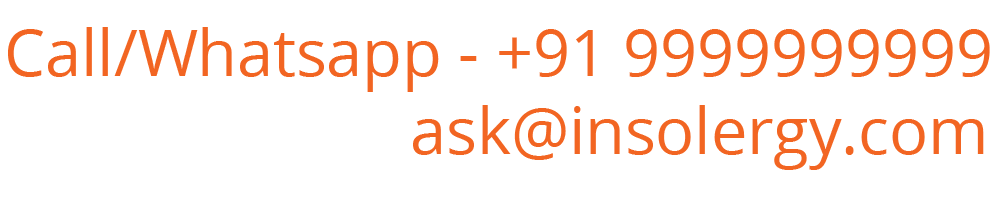
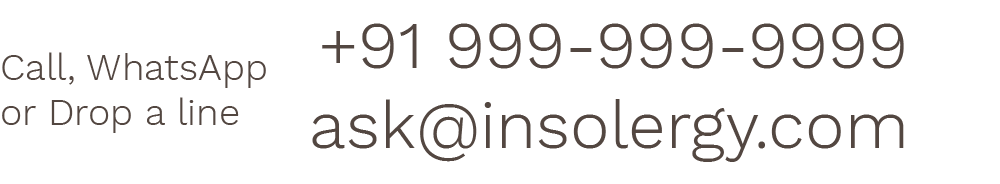
Added new whatsapp image, empty form not received now, Removed g+ link etc

diff --git a/Website/index.html b/Website/index.html
@@ -30,7 +30,7 @@
 						<li><a href="#page2">Services</a></li>
 						<li><a href="#page3">Solar</a></li>
 						<li><a href="#page4">Contact</a></li>
-						<img src="images/Call_Whatsapp.png" width="250px" align="right">
+						<img src="images/Call_Whatsapp.png" width="270px" align="right">
 						<!--<li><a href="#"><p>Call/Whatsapp - +91 99999999</p></a></li>-->
 					</ul>
 				</nav>
@@ -126,24 +126,27 @@
 												</div>
 											</div>
 											<div class="row">
-												<div class="12u" style="width: 85%;	padding-left: 25%">
+												<div class="12u" style="width: 85%;	padding-left: 25%;padding-top: 0px">
 													<ul class="actions">
 														<!--<li>-->
 														<!--<p style="margin-left: 200px"></p>-->
 														<div id="divToFocus" tabindex='1'>
-														<p id="contactText" style="font-size: 1.3em">Need help? Share your contact details</p>
+														<p id="contactText" style="font-size: 1.3em"><p id="oldChild">Need help? Share your contact details</p></p>
 															</div>
 														<div id="contact">
 															<form id="contact1" name="form1">
 															<input type="button" name= 'b1' value="Contact Me" style="float: right" onclick="changeValue()"/>
 															<script>
 																function changeValue() {
+																	if(document.getElementsByName('detail')[0].value=='' || undefined)
+																		return;
 																	document.getElementById("contact").remove();
 																	var element = document.getElementById("contactText");
 																	var jawak=document.createElement('p');
 																	var text=document.createTextNode('Awesome! We will get in touch.');
 																	jawak.appendChild(text);
 																	element.appendChild(jawak);
+																	document.getElementById("oldChild").remove();
 																}
 																Element.prototype.remove = function() {
 																	this.parentElement.removeChild(this);
@@ -284,7 +287,7 @@
 													<li><a class="icon fa-facebook" href="#"><span class="label">Facebook</span></a></li>
 													<li><a class="icon fa-twitter" href="#"><span class="label">Twitter</span></a></li>
 													<li><a class="icon fa-instagram" href="#"><span class="label">Instagram</span></a></li>
-													<li><a class="icon fa-google-plus" href="#"><span class="label">Google+</span></a></li>
+													<!--<li><a class="icon fa-google-plus" href="#"><span class="label">Google+</span></a></li>-->
 												</ul>
 											</section>
 
@@ -294,33 +297,36 @@
 											<!-- Feature -->
 											<section class="box feature">
 												<p style="text-align: justify">
-													Insolergy Technologies Private Limited<br>
+													<b>Insolergy Technologies Private Limited<br></b>
 													Hiranandani Estate, Ghodbunder Road,<br>
 													Thane (W), Maharashtra 400 607<br>
-													Email: ask@insolergy.com<br>
-													Call or WhatsApp: +91 999 999 9999<br>
+													<b>Email</b>: ask@insolergy.com<br>
+													<b>Call or WhatsApp</b>: +91 999 999 9999<br>
 												</p>
 											</section>
 
 										</div>
 									</div>
 									<div class="row">
-										<div class="12u" style="width: 85%;	padding-left: 25%">
+										<div class="12u" style="width: 85%;	padding-left: 25%;padding-top: 0px">
 											<ul class="actions">
 												<!--<li>-->
 												<!--<p style="margin-left: 200px"></p>-->
-												<p id="contactText1" style="font-size: 1.3em">Need help? Share your contact details</p>
+												<p id="contactText1" style="font-size: 1.3em"><p id="oldChild2">Need help? Share your contact details</p></p>
 												<div id="contact2">
 													<form id="contact3" name="form1">
 														<input type="button" name= 'b1' value="Contact Me" style="float: right" onclick="changeValue2()"/>
 														<script>
 															function changeValue2() {
+																if(document.getElementsByName('detail2')[0].value=='' || undefined)
+																	return;
 																document.getElementById("contact2").remove2();
 																var element = document.getElementById("contactText1");
 																var jawak=document.createElement('p');
 																var text=document.createTextNode('Awesome! We will get in touch.');
 																jawak.appendChild(text);
 																element.appendChild(jawak);
+																document.getElementById("oldChild2").remove2();
 															}
 															Element.prototype.remove2 = function() {
 																this.parentElement.removeChild(this);
@@ -334,7 +340,7 @@
 															}
 														</script>
 														<div style="overflow: hidden; padding-right: .5em;">
-															<input name ='detail' type="text" style="width: 100%;" placeholder="Email or Phone" required/>
+															<input name ='detail2' type="text" style="width: 100%;" placeholder="Email or Phone" required/>
 														</div>
 													</form>
 												</div>
